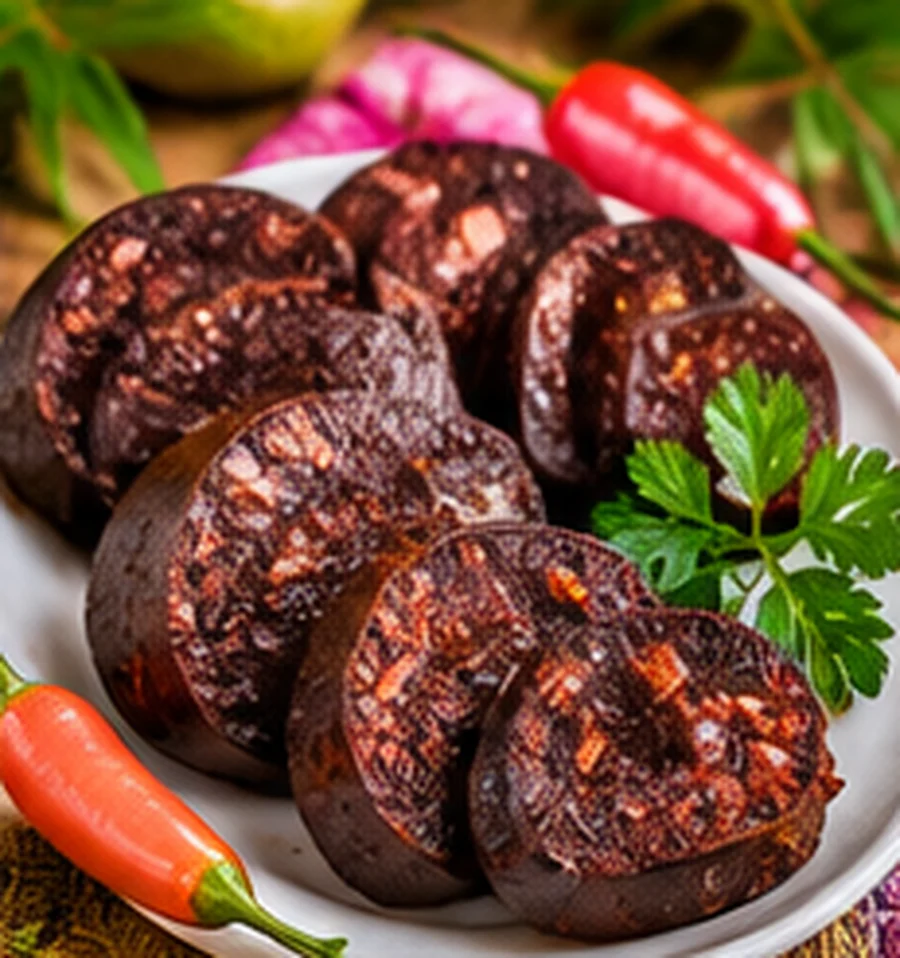
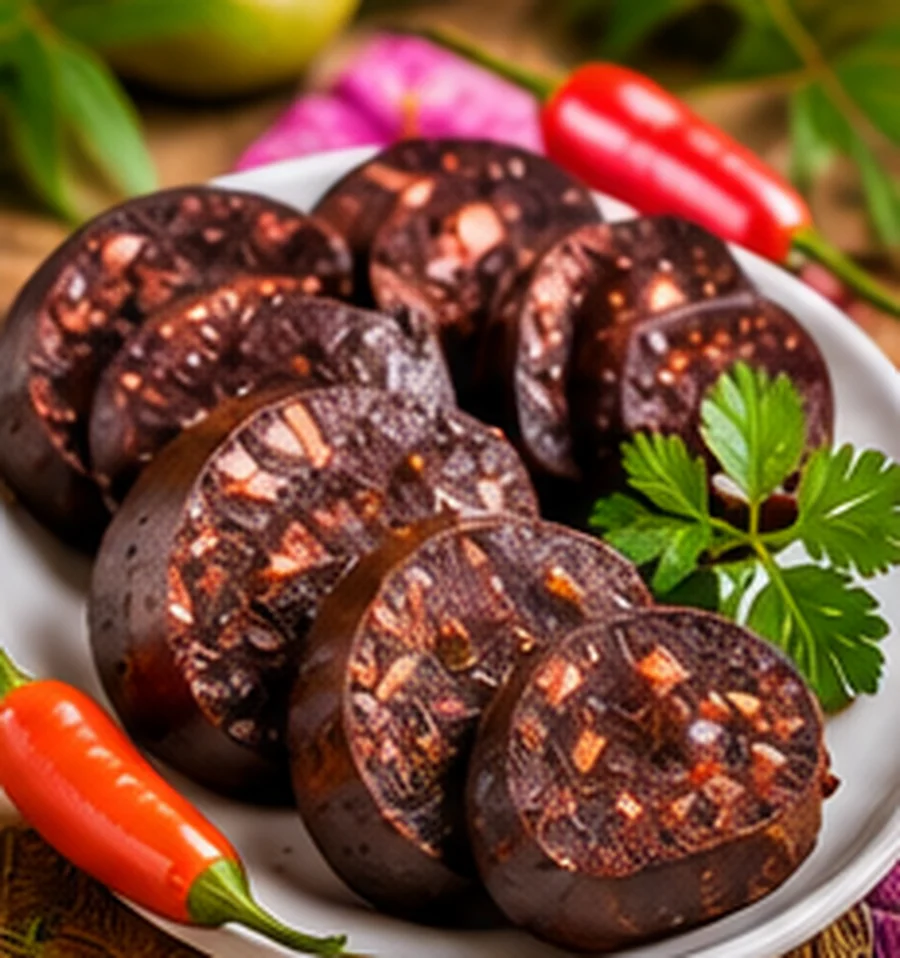
Guadeloupe : nouvelles photos des recettes salées et du kilibibi
Claude-Session: https://claude.ai/code/session_01HgJSWxnu3UTd7Eo3ecR1Re

diff --git a/france.html b/france.html
@@ -4,7 +4,7 @@
   <meta charset="UTF-8" />
   <meta name="viewport" content="width=device-width, initial-scale=1.0" />
   <title>Carte de France — Bibliothèque des régions</title>
-  <link rel="stylesheet" href="commun/site.css?v=20261118q" />
+  <link rel="stylesheet" href="commun/site.css?v=20261119a" />
   <link rel="preconnect" href="https://fonts.googleapis.com" />
   <link href="https://fonts.googleapis.com/css2?family=Playfair+Display:ital,wght@0,400;0,700;1,400&family=Source+Sans+3:wght@400;500;600&display=swap" rel="stylesheet" />
 </head>
@@ -79,36 +79,36 @@
   <p class="accueil-collection-texte">Les recettes des treize régions de métropole, réunies en deux tomes.</p>
   <div class="accueil-collection-livres">
     <a class="accueil-tome" href="collections/france/recettes-salees-france.html" style="--cuir:#8B1E24">
-      <img src="collections/france/images/recettes-salees-france.webp?v=20261118q" alt="" loading="lazy" />
+      <img src="collections/france/images/recettes-salees-france.webp?v=20261119a" alt="" loading="lazy" />
       <span class="accueil-tome-titre">Recettes salées de France<small>Tome 1 · 386 recettes</small></span>
     </a>
     <a class="accueil-tome" href="collections/france/recettes-sucrees-france.html" style="--cuir:#8B1E24">
-      <img src="collections/france/images/recettes-sucrees-france.webp?v=20261118q" alt="" loading="lazy" />
+      <img src="collections/france/images/recettes-sucrees-france.webp?v=20261119a" alt="" loading="lazy" />
       <span class="accueil-tome-titre">Recettes sucrées de France<small>Tome 2 · 384 recettes</small></span>
     </a>
   </div>
 </section>
 
-<script src="commun/regions.js?v=20261118q"></script>
+<script src="commun/regions.js?v=20261119a"></script>
 <!-- La liste des livres de chaque région (pour compter les livres sur la carte) -->
-<script src="regions/auvergne-rhone-alpes/liste-livres.js?v=20261118q"></script>
-<script src="regions/bourgogne-franche-comte/liste-livres.js?v=20261118q"></script>
-<script src="regions/bretagne/liste-livres.js?v=20261118q"></script>
-<script src="regions/centre-val-de-loire/liste-livres.js?v=20261118q"></script>
-<script src="regions/corse/liste-livres.js?v=20261118q"></script>
-<script src="regions/grand-est/liste-livres.js?v=20261118q"></script>
-<script src="regions/hauts-de-france/liste-livres.js?v=20261118q"></script>
-<script src="regions/ile-de-france/liste-livres.js?v=20261118q"></script>
-<script src="regions/normandie/liste-livres.js?v=20261118q"></script>
-<script src="regions/nouvelle-aquitaine/liste-livres.js?v=20261118q"></script>
-<script src="regions/occitanie/liste-livres.js?v=20261118q"></script>
-<script src="regions/pays-de-la-loire/liste-livres.js?v=20261118q"></script>
-<script src="regions/provence-alpes-cote-d-azur/liste-livres.js?v=20261118q"></script>
-<script src="regions/guadeloupe/liste-livres.js?v=20261118q"></script>
-<script src="regions/martinique/liste-livres.js?v=20261118q"></script>
-<script src="regions/guyane/liste-livres.js?v=20261118q"></script>
-<script src="regions/la-reunion/liste-livres.js?v=20261118q"></script>
-<script src="regions/mayotte/liste-livres.js?v=20261118q"></script>
+<script src="regions/auvergne-rhone-alpes/liste-livres.js?v=20261119a"></script>
+<script src="regions/bourgogne-franche-comte/liste-livres.js?v=20261119a"></script>
+<script src="regions/bretagne/liste-livres.js?v=20261119a"></script>
+<script src="regions/centre-val-de-loire/liste-livres.js?v=20261119a"></script>
+<script src="regions/corse/liste-livres.js?v=20261119a"></script>
+<script src="regions/grand-est/liste-livres.js?v=20261119a"></script>
+<script src="regions/hauts-de-france/liste-livres.js?v=20261119a"></script>
+<script src="regions/ile-de-france/liste-livres.js?v=20261119a"></script>
+<script src="regions/normandie/liste-livres.js?v=20261119a"></script>
+<script src="regions/nouvelle-aquitaine/liste-livres.js?v=20261119a"></script>
+<script src="regions/occitanie/liste-livres.js?v=20261119a"></script>
+<script src="regions/pays-de-la-loire/liste-livres.js?v=20261119a"></script>
+<script src="regions/provence-alpes-cote-d-azur/liste-livres.js?v=20261119a"></script>
+<script src="regions/guadeloupe/liste-livres.js?v=20261119a"></script>
+<script src="regions/martinique/liste-livres.js?v=20261119a"></script>
+<script src="regions/guyane/liste-livres.js?v=20261119a"></script>
+<script src="regions/la-reunion/liste-livres.js?v=20261119a"></script>
+<script src="regions/mayotte/liste-livres.js?v=20261119a"></script>
 <script src="commun/carte.js"></script>
 </body>
 </html>

diff --git a/regions/guadeloupe/recettes-guadeloupe.html b/regions/guadeloupe/recettes-guadeloupe.html
@@ -234,7 +234,7 @@
 </section>
 <section class="section recette" id="r-kilibibi" style="--rc:#B5502A;--rc2:#8A3B1E">
 <h2 class="section-titre"><div class="section-titre-icon">🌽</div>Kilibibi</h2>
-<div class="recette-partie"><div class="encadre"><div class="encadre-titre">🌽 Tout l'archipel</div><p>Une friandise ancienne de farine de maïs grillé et de sucre.</p></div></div>
+<div class="recette-partie"><figure class="photo-bloc photo-centre"><img src="images/recettes/kilibibi.webp" alt="Kilibibi" decoding="async" /><figcaption>Une friandise ancienne de farine de maïs grillé et de sucre · Tout l'archipel</figcaption></figure></div>
 <div class="recette-partie"><div class="chiffres"><div class="chiffre"><div class="val">15</div><div class="lib">pièces</div></div><div class="chiffre"><div class="val">20 min</div><div class="lib">de préparation</div></div><div class="chiffre"><div class="val">15 min</div><div class="lib">de cuisson</div></div><div class="chiffre"><div class="val">Tradition</div><div class="lib">vendue autrefois à la sortie des écoles</div></div></div></div>
 <div class="recette-partie"><h3 class="recette-titre-partie"><span class="ico">🧺</span>Les ingrédients</h3><div class="ingredients-grille"><div class="ingredients-bloc"><div class="ingredients-titre">✦ Les ingrédients</div><ul class="ingredients-liste"><li><span class="qte">250 g</span><span>de maïs sec (ou de farine de maïs)</span></li><li><span class="qte">100 g</span><span>de sucre de canne</span></li><li><span class="qte"></span><span>sel, un peu de cannelle</span></li></ul></div></div></div>
 <div class="recette-partie"><h3 class="recette-titre-partie"><span class="ico">👩🍳</span>La préparation</h3><div class="ingredients-bloc"><ol class="parcours-liste"><li data-n="1"><span><strong>Griller :</strong> Faites griller les grains de maïs dans une poêle sans matière grasse, en remuant.</span></li><li data-n="2"><span><strong>Moudre :</strong> Réduisez-les en farine fine au moulin ou au mixeur.</span></li><li data-n="3"><span><strong>Mélanger :</strong> Mélangez la farine avec le sucre, la cannelle et une pincée de sel.</span></li><li data-n="4"><span><strong>Tasser :</strong> Tassez le mélange dans de petits cornets de papier.</span></li><li data-n="5"><span><strong>Déguster :</strong> On le mange tel quel, en petites bouchées.</span></li></ol></div></div>

diff --git a/regions/provence-alpes-cote-d-azur/bibliotheque.html b/regions/provence-alpes-cote-d-azur/bibliotheque.html
@@ -4,7 +4,7 @@
   <meta charset="UTF-8" />
   <meta name="viewport" content="width=device-width, initial-scale=1.0" />
   <title>Bibliothèque — Provence-Alpes-Côte d&#x27;Azur</title>
-  <link rel="stylesheet" href="../../commun/site.css?v=20261118q" />
+  <link rel="stylesheet" href="../../commun/site.css?v=20261119a" />
   <link rel="preconnect" href="https://fonts.googleapis.com" />
   <link href="https://fonts.googleapis.com/css2?family=Playfair+Display:ital,wght@0,400;0,700;1,400&family=Source+Sans+3:wght@400;500;600&display=swap" rel="stylesheet" />
 </head>
@@ -28,8 +28,8 @@
   <div class="biblio-meuble"></div>
 </main>
 
-<script src="../../commun/regions.js?v=20261118q"></script>
-<script src="liste-livres.js?v=20261118q"></script>
-<script src="../../commun/bibliotheque.js?v=20261118q"></script>
+<script src="../../commun/regions.js?v=20261119a"></script>
+<script src="liste-livres.js?v=20261119a"></script>
+<script src="../../commun/bibliotheque.js?v=20261119a"></script>
 </body>
 </html>

diff --git a/regions/bourgogne-franche-comte/bibliotheque.html b/regions/bourgogne-franche-comte/bibliotheque.html
@@ -4,7 +4,7 @@
   <meta charset="UTF-8" />
   <meta name="viewport" content="width=device-width, initial-scale=1.0" />
   <title>Bibliothèque — Bourgogne-Franche-Comté</title>
-  <link rel="stylesheet" href="../../commun/site.css?v=20261118q" />
+  <link rel="stylesheet" href="../../commun/site.css?v=20261119a" />
   <link rel="preconnect" href="https://fonts.googleapis.com" />
   <link href="https://fonts.googleapis.com/css2?family=Playfair+Display:ital,wght@0,400;0,700;1,400&family=Source+Sans+3:wght@400;500;600&display=swap" rel="stylesheet" />
 </head>
@@ -28,8 +28,8 @@
   <div class="biblio-meuble"></div>
 </main>
 
-<script src="../../commun/regions.js?v=20261118q"></script>
-<script src="liste-livres.js?v=20261118q"></script>
-<script src="../../commun/bibliotheque.js?v=20261118q"></script>
+<script src="../../commun/regions.js?v=20261119a"></script>
+<script src="liste-livres.js?v=20261119a"></script>
+<script src="../../commun/bibliotheque.js?v=20261119a"></script>
 </body>
 </html>

diff --git a/regions/auvergne-rhone-alpes/bibliotheque.html b/regions/auvergne-rhone-alpes/bibliotheque.html
@@ -4,7 +4,7 @@
   <meta charset="UTF-8" />
   <meta name="viewport" content="width=device-width, initial-scale=1.0" />
   <title>Bibliothèque — Auvergne-Rhône-Alpes</title>
-  <link rel="stylesheet" href="../../commun/site.css?v=20261118q" />
+  <link rel="stylesheet" href="../../commun/site.css?v=20261119a" />
   <link rel="preconnect" href="https://fonts.googleapis.com" />
   <link href="https://fonts.googleapis.com/css2?family=Playfair+Display:ital,wght@0,400;0,700;1,400&family=Source+Sans+3:wght@400;500;600&display=swap" rel="stylesheet" />
 </head>
@@ -28,8 +28,8 @@
   <div class="biblio-meuble"></div>
 </main>
 
-<script src="../../commun/regions.js?v=20261118q"></script>
-<script src="liste-livres.js?v=20261118q"></script>
-<script src="../../commun/bibliotheque.js?v=20261118q"></script>
+<script src="../../commun/regions.js?v=20261119a"></script>
+<script src="liste-livres.js?v=20261119a"></script>
+<script src="../../commun/bibliotheque.js?v=20261119a"></script>
 </body>
 </html>

diff --git a/regions/centre-val-de-loire/bibliotheque.html b/regions/centre-val-de-loire/bibliotheque.html
@@ -4,7 +4,7 @@
   <meta charset="UTF-8" />
   <meta name="viewport" content="width=device-width, initial-scale=1.0" />
   <title>Bibliothèque — Centre-Val de Loire</title>
-  <link rel="stylesheet" href="../../commun/site.css?v=20261118q" />
+  <link rel="stylesheet" href="../../commun/site.css?v=20261119a" />
   <link rel="preconnect" href="https://fonts.googleapis.com" />
   <link href="https://fonts.googleapis.com/css2?family=Playfair+Display:ital,wght@0,400;0,700;1,400&family=Source+Sans+3:wght@400;500;600&display=swap" rel="stylesheet" />
 </head>
@@ -28,8 +28,8 @@
   <div class="biblio-meuble"></div>
 </main>
 
-<script src="../../commun/regions.js?v=20261118q"></script>
-<script src="liste-livres.js?v=20261118q"></script>
-<script src="../../commun/bibliotheque.js?v=20261118q"></script>
+<script src="../../commun/regions.js?v=20261119a"></script>
+<script src="liste-livres.js?v=20261119a"></script>
+<script src="../../commun/bibliotheque.js?v=20261119a"></script>
 </body>
 </html>

diff --git a/regions/nouvelle-aquitaine/bibliotheque.html b/regions/nouvelle-aquitaine/bibliotheque.html
@@ -4,7 +4,7 @@
   <meta charset="UTF-8" />
   <meta name="viewport" content="width=device-width, initial-scale=1.0" />
   <title>Bibliothèque — Nouvelle-Aquitaine</title>
-  <link rel="stylesheet" href="../../commun/site.css?v=20261118q" />
+  <link rel="stylesheet" href="../../commun/site.css?v=20261119a" />
   <link rel="preconnect" href="https://fonts.googleapis.com" />
   <link href="https://fonts.googleapis.com/css2?family=Playfair+Display:ital,wght@0,400;0,700;1,400&family=Source+Sans+3:wght@400;500;600&display=swap" rel="stylesheet" />
 </head>
@@ -28,8 +28,8 @@
   <div class="biblio-meuble"></div>
 </main>
 
-<script src="../../commun/regions.js?v=20261118q"></script>
-<script src="liste-livres.js?v=20261118q"></script>
-<script src="../../commun/bibliotheque.js?v=20261118q"></script>
+<script src="../../commun/regions.js?v=20261119a"></script>
+<script src="liste-livres.js?v=20261119a"></script>
+<script src="../../commun/bibliotheque.js?v=20261119a"></script>
 </body>
 </html>

diff --git a/regions/pays-de-la-loire/bibliotheque.html b/regions/pays-de-la-loire/bibliotheque.html
@@ -4,7 +4,7 @@
   <meta charset="UTF-8" />
   <meta name="viewport" content="width=device-width, initial-scale=1.0" />
   <title>Bibliothèque — Pays de la Loire</title>
-  <link rel="stylesheet" href="../../commun/site.css?v=20261118q" />
+  <link rel="stylesheet" href="../../commun/site.css?v=20261119a" />
   <link rel="preconnect" href="https://fonts.googleapis.com" />
   <link href="https://fonts.googleapis.com/css2?family=Playfair+Display:ital,wght@0,400;0,700;1,400&family=Source+Sans+3:wght@400;500;600&display=swap" rel="stylesheet" />
 </head>
@@ -28,8 +28,8 @@
   <div class="biblio-meuble"></div>
 </main>
 
-<script src="../../commun/regions.js?v=20261118q"></script>
-<script src="liste-livres.js?v=20261118q"></script>
-<script src="../../commun/bibliotheque.js?v=20261118q"></script>
+<script src="../../commun/regions.js?v=20261119a"></script>
+<script src="liste-livres.js?v=20261119a"></script>
+<script src="../../commun/bibliotheque.js?v=20261119a"></script>
 </body>
 </html>

diff --git a/regions/hauts-de-france/bibliotheque.html b/regions/hauts-de-france/bibliotheque.html
@@ -4,7 +4,7 @@
   <meta charset="UTF-8" />
   <meta name="viewport" content="width=device-width, initial-scale=1.0" />
   <title>Bibliothèque — Hauts-de-France</title>
-  <link rel="stylesheet" href="../../commun/site.css?v=20261118q" />
+  <link rel="stylesheet" href="../../commun/site.css?v=20261119a" />
   <link rel="preconnect" href="https://fonts.googleapis.com" />
   <link href="https://fonts.googleapis.com/css2?family=Playfair+Display:ital,wght@0,400;0,700;1,400&family=Source+Sans+3:wght@400;500;600&display=swap" rel="stylesheet" />
 </head>
@@ -28,8 +28,8 @@
   <div class="biblio-meuble"></div>
 </main>
 
-<script src="../../commun/regions.js?v=20261118q"></script>
-<script src="liste-livres.js?v=20261118q"></script>
-<script src="../../commun/bibliotheque.js?v=20261118q"></script>
+<script src="../../commun/regions.js?v=20261119a"></script>
+<script src="liste-livres.js?v=20261119a"></script>
+<script src="../../commun/bibliotheque.js?v=20261119a"></script>
 </body>
 </html>

diff --git a/regions/ile-de-france/bibliotheque.html b/regions/ile-de-france/bibliotheque.html
@@ -4,7 +4,7 @@
   <meta charset="UTF-8" />
   <meta name="viewport" content="width=device-width, initial-scale=1.0" />
   <title>Bibliothèque — Île-de-France</title>
-  <link rel="stylesheet" href="../../commun/site.css?v=20261118q" />
+  <link rel="stylesheet" href="../../commun/site.css?v=20261119a" />
   <link rel="preconnect" href="https://fonts.googleapis.com" />
   <link href="https://fonts.googleapis.com/css2?family=Playfair+Display:ital,wght@0,400;0,700;1,400&family=Source+Sans+3:wght@400;500;600&display=swap" rel="stylesheet" />
 </head>
@@ -28,8 +28,8 @@
   <div class="biblio-meuble"></div>
 </main>
 
-<script src="../../commun/regions.js?v=20261118q"></script>
-<script src="liste-livres.js?v=20261118q"></script>
-<script src="../../commun/bibliotheque.js?v=20261118q"></script>
+<script src="../../commun/regions.js?v=20261119a"></script>
+<script src="liste-livres.js?v=20261119a"></script>
+<script src="../../commun/bibliotheque.js?v=20261119a"></script>
 </body>
 </html>

diff --git a/regions/la-reunion/bibliotheque.html b/regions/la-reunion/bibliotheque.html
@@ -4,7 +4,7 @@
   <meta charset="UTF-8" />
   <meta name="viewport" content="width=device-width, initial-scale=1.0" />
   <title>Bibliothèque — La Réunion</title>
-  <link rel="stylesheet" href="../../commun/site.css?v=20261118q" />
+  <link rel="stylesheet" href="../../commun/site.css?v=20261119a" />
   <link rel="preconnect" href="https://fonts.googleapis.com" />
   <link href="https://fonts.googleapis.com/css2?family=Playfair+Display:ital,wght@0,400;0,700;1,400&family=Source+Sans+3:wght@400;500;600&display=swap" rel="stylesheet" />
 </head>
@@ -28,8 +28,8 @@
   <div class="biblio-meuble"></div>
 </main>
 
-<script src="../../commun/regions.js?v=20261118q"></script>
-<script src="liste-livres.js?v=20261118q"></script>
-<script src="../../commun/bibliotheque.js?v=20261118q"></script>
+<script src="../../commun/regions.js?v=20261119a"></script>
+<script src="liste-livres.js?v=20261119a"></script>
+<script src="../../commun/bibliotheque.js?v=20261119a"></script>
 </body>
 </html>

diff --git a/regions/guadeloupe/bibliotheque.html b/regions/guadeloupe/bibliotheque.html
@@ -4,7 +4,7 @@
   <meta charset="UTF-8" />
   <meta name="viewport" content="width=device-width, initial-scale=1.0" />
   <title>Bibliothèque — Guadeloupe</title>
-  <link rel="stylesheet" href="../../commun/site.css?v=20261118q" />
+  <link rel="stylesheet" href="../../commun/site.css?v=20261119a" />
   <link rel="preconnect" href="https://fonts.googleapis.com" />
   <link href="https://fonts.googleapis.com/css2?family=Playfair+Display:ital,wght@0,400;0,700;1,400&family=Source+Sans+3:wght@400;500;600&display=swap" rel="stylesheet" />
 </head>
@@ -28,8 +28,8 @@
   <div class="biblio-meuble"></div>
 </main>
 
-<script src="../../commun/regions.js?v=20261118q"></script>
-<script src="liste-livres.js?v=20261118q"></script>
-<script src="../../commun/bibliotheque.js?v=20261118q"></script>
+<script src="../../commun/regions.js?v=20261119a"></script>
+<script src="liste-livres.js?v=20261119a"></script>
+<script src="../../commun/bibliotheque.js?v=20261119a"></script>
 </body>
 </html>
